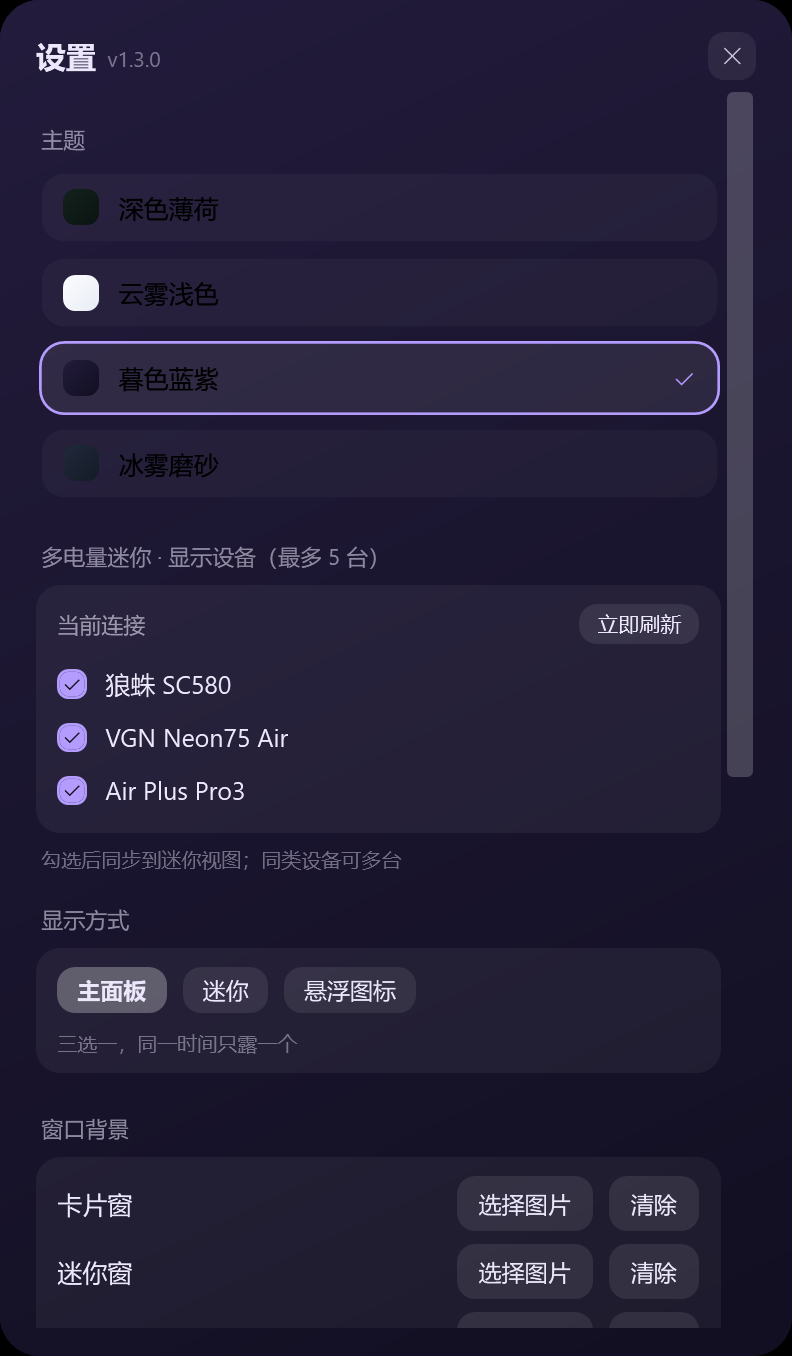
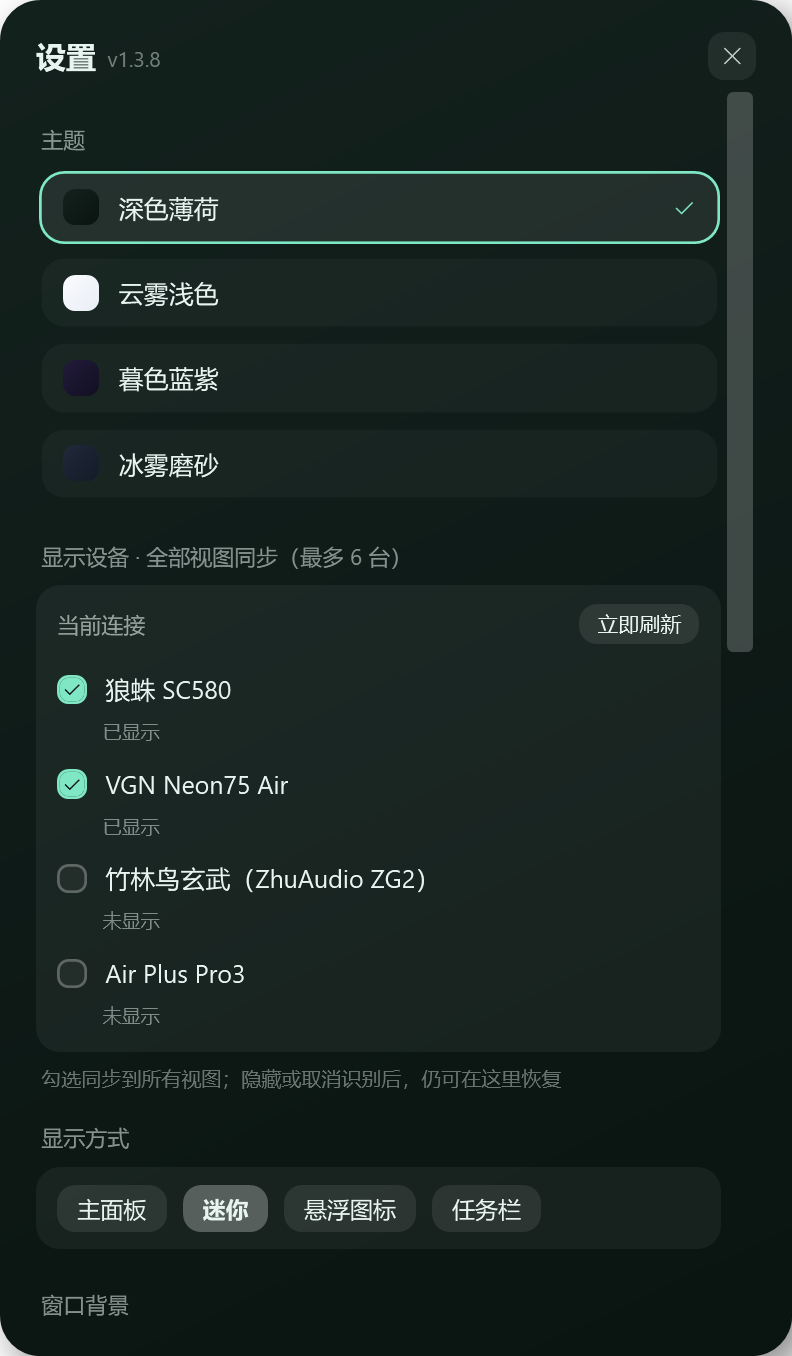
docs: v1.3.8 截图更新与版本号对齐
- README 换用 1.3.8 实机截图，设备上限 5→6，形态补任务栏，构建产物 dist→app
- 截图模式保留当前勾选，不再生成空面板图
- release-about 版本快照更新到 v1.3.8，版本号说明改为按程序集版本

diff --git a/src/MouseDock/App.xaml.cs b/src/MouseDock/App.xaml.cs
@@ -996,7 +996,12 @@ namespace MouseDock
             Directory.CreateDirectory(dir);
 
             // 鎴浘瑕佸睍绀虹湡瀹炴帰娴嬬粨鏋?            Settings.Provider = "auto";
-            Settings.SelectedDeviceIds.Clear();
+            // 保留当前勾选，截图展示真实设备；没有勾选时按首次启动全选
+            if (Settings.SelectedDeviceIds.Count == 0)
+            {
+                Settings.HasDeviceSelection = false;
+                Settings.DeviceSelectionInitialized = false;
+            }
             Battery.Configure(Settings);
             Battery.Poll();
             Pump(TimeSpan.FromMilliseconds(1800));

diff --git a/README.md b/README.md
@@ -14,12 +14,11 @@
 
 <p align="center">
   <img src="docs/screenshots/icon-character.png" width="110" alt="悬浮图标 · 角色" />
-  <img src="docs/screenshots/icon-photo.png" width="110" alt="悬浮图标 · 照片" />
 </p>
 
 ## 特性
 
-- **任务栏电量环**：默认固定在主屏任务栏左侧，每台已勾选的设备显示对应图标和独立电量环，背景透明；最多显示 5 台
+- **任务栏电量环**：默认固定在主屏任务栏左侧，每台已勾选的设备显示对应图标和独立电量环，背景透明；最多显示 6 台
 - **任务栏位置设置**：设置 → 显示方式 → 任务栏，可调整左侧偏移；双击设备图标打开设置，右键打开菜单
 - **电量环状态**：绿色为正常、红色为低电量、蓝色为充电、虚线为未知；悬停查看名称和具体百分比
 - **只显示当前连接的设备**：内置键盘 / 触摸板 / 摄像头自动过滤；拔出即从列表消失
@@ -27,16 +26,17 @@
 - **通道判定**：`2.4G` / `蓝牙` / `蓝牙 LE` / `有线`，依据设备路径与产品串，不靠猜
 - **电量多策略**：HID 标准电池 → Logitech HID++ → 厂商 32 字节私有协议 → BLE GATT
 - **实时刷新**：默认 5 秒轮询（可调 5–120 秒）；USB 插拔由 `WM_DEVICECHANGE` 立即触发
-- **三种形态**：卡片面板 / 迷你 2×2 / 悬浮图标；可停靠到 Winstep Nexus
+- **四种形态**：卡片面板 / 迷你 2×2 / 悬浮图标 / 任务栏；可停靠到 Winstep Nexus
+- **悬浮图标形态**：外壳可选圆角 / 圆形 / 方形 / 胶囊，内容可选照片、角色动画、经典电池、极简、多设备
 - **普通窗口层级**：不置顶、不抢焦点，其它窗口可以正常盖住它；268×159 起，占桌面很小一块
 
 ## 快速开始
 
-本地修改版可运行 `.\build.ps1` 编译，产物为 `dist\MouseDock.exe` 与 `dist\Assets\`。运行时已包含在 exe 中，分发时请保留整个 `dist` 文件夹。脚本优先使用仓库内 `.dotnet\` 下的 SDK。
+本地修改版可运行 `.\build.ps1` 编译，产物为单文件 `app\MouseDock.exe`，运行时和图片资源都打包在 exe 里，拷走一个文件就能跑。脚本优先使用仓库内 `.dotnet\` 下的 SDK。
 
 任务栏模式使用独立透明窗口覆盖任务栏区域，不会为它挤出系统按钮空间。可通过“左侧偏移”避开开始、搜索或天气按钮。它跟随主屏任务栏位置与大小，在任务栏隐藏或全屏应用显示时隐藏。
 
-下完仓库双击 `MouseDock.cmd` 就行。它会自己在仓库里装 .NET 10 SDK（装到 `.dotnet\`，不写注册表）、把程序打成**单个** `dist\MouseDock.exe`（约 77 MB，运行时和图片资源全在里面，不用另装 .NET）、在桌面和开始菜单放 `MouseDock.lnk`，然后把程序拉起来。产物那一个 exe 拷到 U 盘或发给别人也能直接双击跑。
+下完仓库双击 `MouseDock.cmd` 就行。它会自己在仓库里装 .NET 10 SDK（装到 `.dotnet\`，不写注册表）、把程序打成**单个** `app\MouseDock.exe`（约 82 MB，运行时和图片资源全在里面，不用另装 .NET）、在桌面和开始菜单放 `MouseDock.lnk`，然后把程序拉起来。产物那一个 exe 拷到 U 盘或发给别人也能直接双击跑。
 
 第一次启动要解包到 `%TEMP%\.net\MouseDock\`，慢一些（约 30 秒）；之后启动 5 秒内。
 
@@ -46,8 +46,8 @@ cd MouseDock
 ./MouseDock.cmd                    # 一键：装 SDK → 编译 → 建快捷方式 → 启动
 .\tools\bootstrap.ps1 -NoLaunch    # 只建快捷方式，不启动
 .\tools\bootstrap.ps1 -Rebuild     # 强制重编
-./build.ps1                        # 只编译，产物 dist\MouseDock.exe
-./install.ps1                      # 只有 dist 已存在时才好用；加 -AutoStart 开机启动
+./build.ps1                        # 只编译，产物 app\MouseDock.exe
+./install.ps1                      # 只有 app 已存在时才好用；加 -AutoStart 开机启动
 ```
 
 `.cmd` 里走的是 `-ExecutionPolicy Bypass`，不改系统脚本策略。压缩包从网上下载的，右键属性里可能有「解除锁定」，不解除会弹安全警告。
@@ -77,7 +77,7 @@ cd MouseDock
 自动更新可在设置里关闭，关掉后完全不发起任何网络请求。
 但与 HID 设备交互本身容易触发启发式误判，因此：
 
-- **安全模式**：`设置 → 数据源 → 安全模式`，关闭所有厂商通道写操作，只保留标准 HID 读取
+- **安全模式**：`AppSettings.SafeMode` 打开后关闭所有厂商通道写操作，只保留标准 HID 读取；设置页入口暂时收起，需要时直接改 `%APPDATA%\MouseDock\settings.json`
 - **可复现构建**：见 [docs/BUILD.md](docs/BUILD.md)，附 SHA-256 校验
 - **代码签名**：见 [docs/SIGNING.md](docs/SIGNING.md)
 
@@ -86,7 +86,7 @@ cd MouseDock
 ```
 src/MouseDock/            应用本体
   Services/Detection/     设备发现、通道判定、电量读取
-  Views/                  面板 / 迷你 / 图标 / 设置 / 壁纸墙
+  Views/                  面板 / 迷你 / 悬浮图标 / 任务栏 / 设置 / 关于
 tools/                    开发期工具（USB 抓包解析等，不随发行版）
 docs/                     协议、构建、签名、支持设备
 .github/workflows/        CI：构建与发布

diff --git a/docs/release-about.md b/docs/release-about.md
@@ -1,7 +1,7 @@
 # MouseDock 本版说明 & 关于
 
-> 版本快照：2026-10-31 夜间构建
-> 产物：`app\MouseDock.exe`（单文件，自包含，约 81 MB）
+> 版本快照：2026-11-04 构建（v1.3.8）
+> 产物：`app\MouseDock.exe`（单文件，自包含，约 82 MB）
 > 协议：MIT，仅检查更新时联网，无遥测
 
 ---
@@ -293,4 +293,6 @@ hid-probe.txt        上次 --hid-probe 的输出
 
 ### 版本号说明
 
-这些功能补进 v1.3.0，版本号保持 `1.3.0` 不变 —— 已经装了 v1.3.0 的人不会收到「有新版本」的提示，但下次重新下载安装包就会带上。
+当前版本 `1.3.8`。设置页标题和关于窗口显示的都是程序集版本号，`<Version>` / `<FileVersion>` 改一处全跟着变。
+
+GitHub Release 的 tag 与程序内版本号保持一致；自动更新拿 tag 和当前版本比较，只有远端更大才提示。
